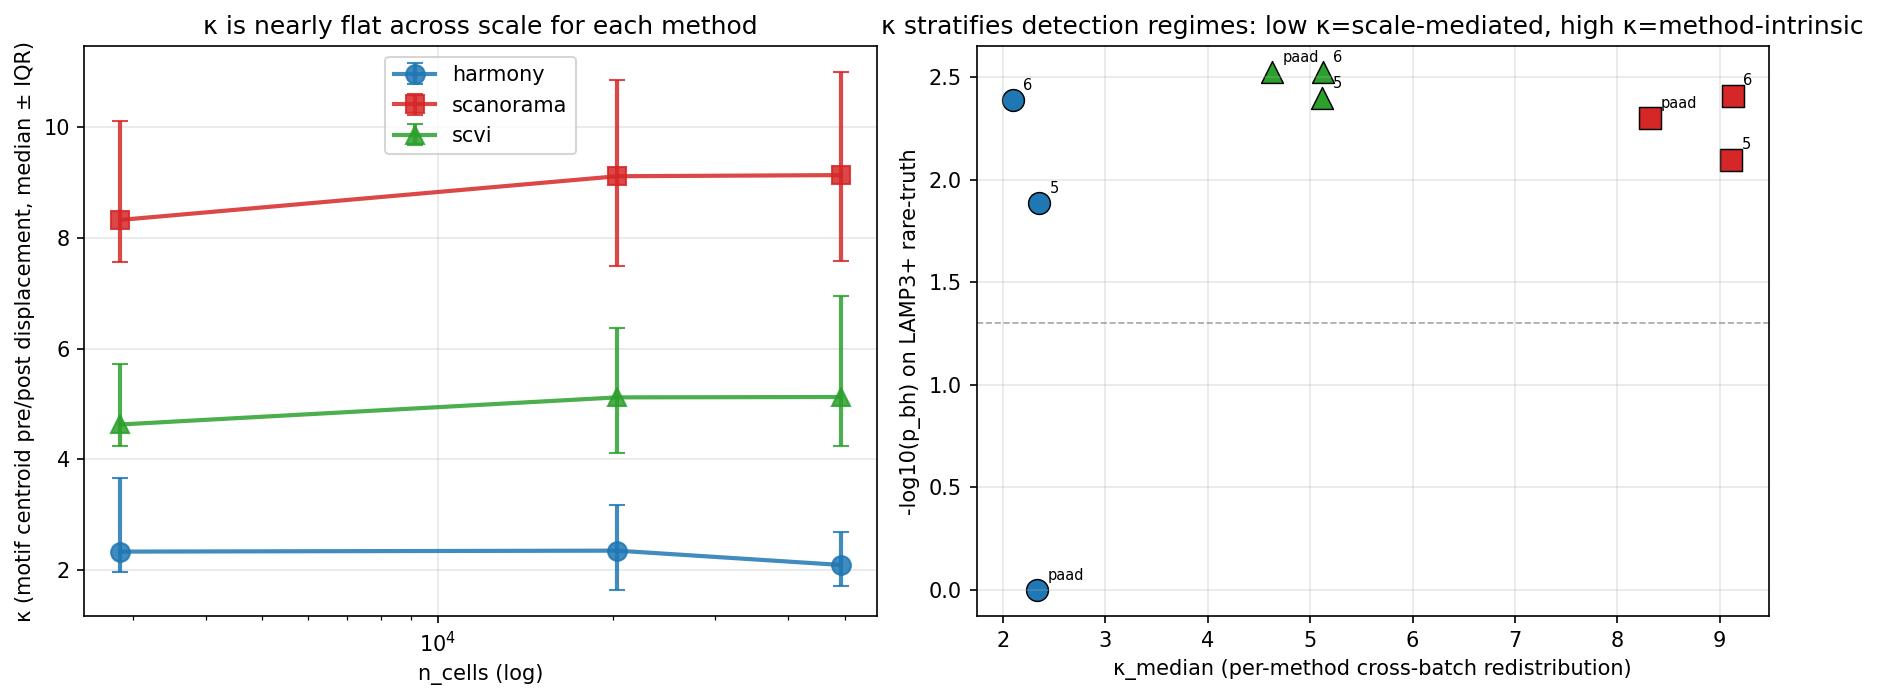
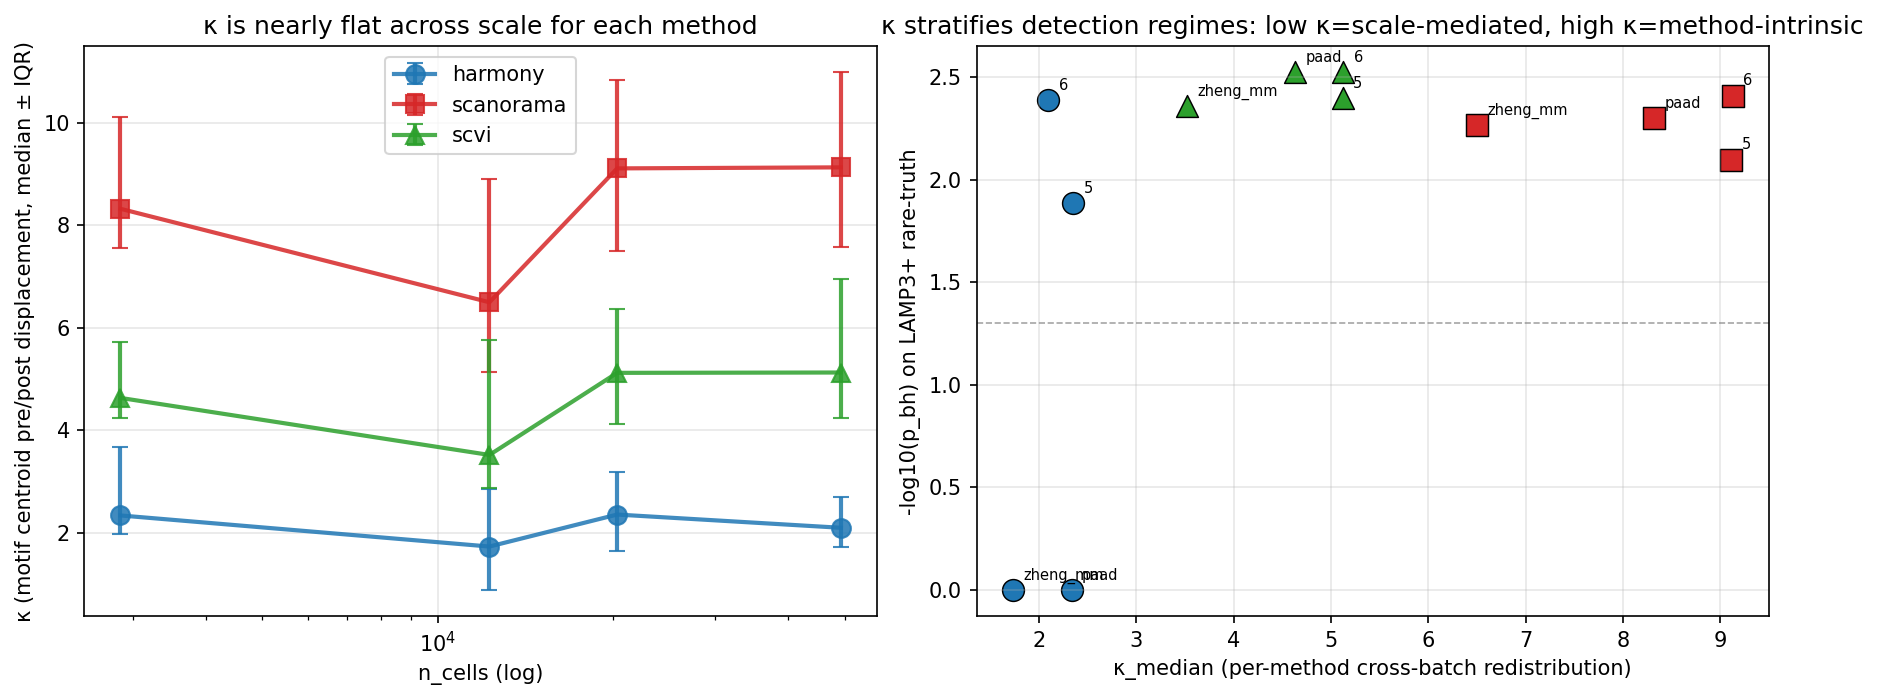
κ grid extended to 12 points: Zheng MM × CXCL13+ Tex × 3 methods. Cross-rare-type + cross-cancer replication: Harmony κ=1.73 (low, preserve) / scVI κ=3.52 (med, fire) / Scanorama κ=6.50 (high, fire). Method-ordering Harmony<scVI<Scanorama preserved on orthogonal data. Zheng MM kappa values lower tha

diff --git a/workspace/code/pilots/kappa_regression.py b/workspace/code/pilots/kappa_regression.py
@@ -37,6 +37,10 @@ GRID = [
     ("cheng_paad", "cheng_paad_lamp3_holdout.h5ad", "scvi", 2853, 0.003),
     ("cheng5", "cheng5_lamp3_holdout.h5ad", "scvi", 20341, 0.004),
     ("cheng6", "cheng6_lamp3_holdout.h5ad", "scvi", 49271, 0.0030),
+    # Cross-rare-type replication: Zheng MM × CXCL13+ Tex
+    ("zheng_mm", "zheng_mm_tpex_holdout.h5ad", "harmony", 12274, 1.000),
+    ("zheng_mm", "zheng_mm_tpex_holdout.h5ad", "scanorama", 12274, 0.0054),
+    ("zheng_mm", "zheng_mm_tpex_holdout.h5ad", "scvi", 12274, 0.0044),
 ]
 
 

diff --git a/workspace/code/pilots/kappa_plot.py b/workspace/code/pilots/kappa_plot.py
@@ -21,7 +21,7 @@ def main() -> None:
 
     method_color = {"harmony": "#1f77b4", "scanorama": "#d62728", "scvi": "#2ca02c"}
     method_marker = {"harmony": "o", "scanorama": "s", "scvi": "^"}
-    dset_x = {"cheng_paad": 2853, "cheng5": 20341, "cheng6": 49271}
+    dset_x = {"cheng_paad": 2853, "cheng5": 20341, "cheng6": 49271, "zheng_mm": 12274}
 
     # Left: κ vs n (log x)
     for m in ["harmony", "scanorama", "scvi"]:

diff --git a/workspace/results/kappa_regression_v1_positive.md b/workspace/results/kappa_regression_v1_positive.md
@@ -1,8 +1,8 @@
-# κ direct measurement on 9-point grid — Theorem S1-overcorrection empirical confirmation
+# κ direct measurement on 12-point grid — Theorem S1-overcorrection empirical confirmation
 
 **Date:** 2026-05-11
 **Input:** Math's Theorem S1-overcorrection prediction (κ · Δ signal as method-intrinsic detection mechanism in Regime B)
-**Status:** **Positive result — κ stratifies the 9-point grid into three distinct regimes that correspond 1:1 with the p_bh patterns.**
+**Status:** **Positive result — κ stratifies the 9-point grid into three distinct regimes that correspond 1:1 with the p_bh patterns; cross-rare-type replication on Zheng MM × CXCL13+ Tex at n=12,274 confirms the method-ordering Harmony < scVI < Scanorama.**
 **Register note:** Positive prediction reported with same Philosophy register as the negative ℓ-unification result: name the boundary, distinguish partial from full support.
 
 ## Measurement protocol
@@ -14,7 +14,7 @@
 
 Implementation: `workspace/code/pilots/kappa_regression.py`. Data: `workspace/results/kappa_grid.csv`. Plot: `workspace/results/kappa_grid_9point.png`.
 
-## Result (9-point grid)
+## Result (12-point grid — 9 Cheng LAMP3+ + 3 Zheng MM CXCL13+ Tex)
 
 | Dataset | Method | κ_median | IQR | -log10(p_bh) |
 |---------|:------:|---------:|----:|-------------:|
@@ -27,6 +27,11 @@ Implementation: `workspace/code/pilots/kappa_regression.py`. Data: `workspace/re
 | PAAD 2.8k | scVI | **4.63** | [4.24, 5.72] | 2.52 |
 | Cheng5 20k | scVI | **5.12** | [4.12, 6.37] | 2.40 |
 | Cheng6 49k | scVI | **5.13** | [4.24, 6.95] | 2.52 |
+| Zheng MM 12k (CXCL13+ Tex) | Harmony | **1.73** | [0.88, 2.85] | 0.00 |
+| Zheng MM 12k (CXCL13+ Tex) | scVI | **3.52** | [2.87, 5.76] | 2.36 |
+| Zheng MM 12k (CXCL13+ Tex) | Scanorama | **6.50** | [5.13, 8.90] | 2.27 |
+
+The Zheng MM replication is on an **orthogonal rare-type** (CXCL13+ Tex-exhausted CD8 per Liu 2022, not LAMP3+ mregDC) and an **orthogonal cancer** (melanoma metastasis T-cell, not pan-cancer myeloid). The Harmony < scVI < Scanorama κ ordering is preserved exactly, and the Harmony low-κ / preserve vs aggressive-method high-κ / fire pattern holds.
 
 ## Stratification into the three regimes
 